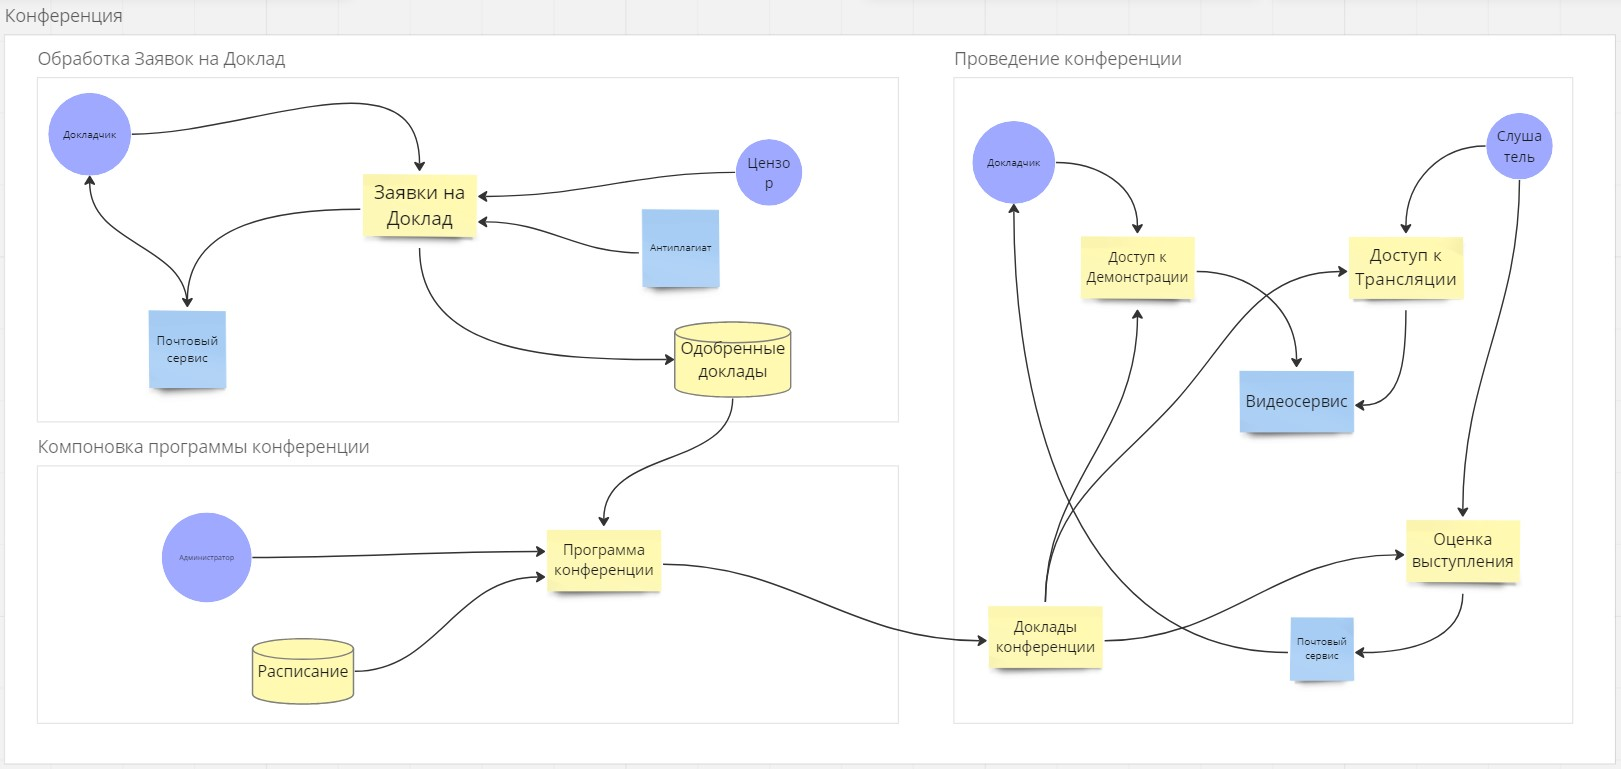
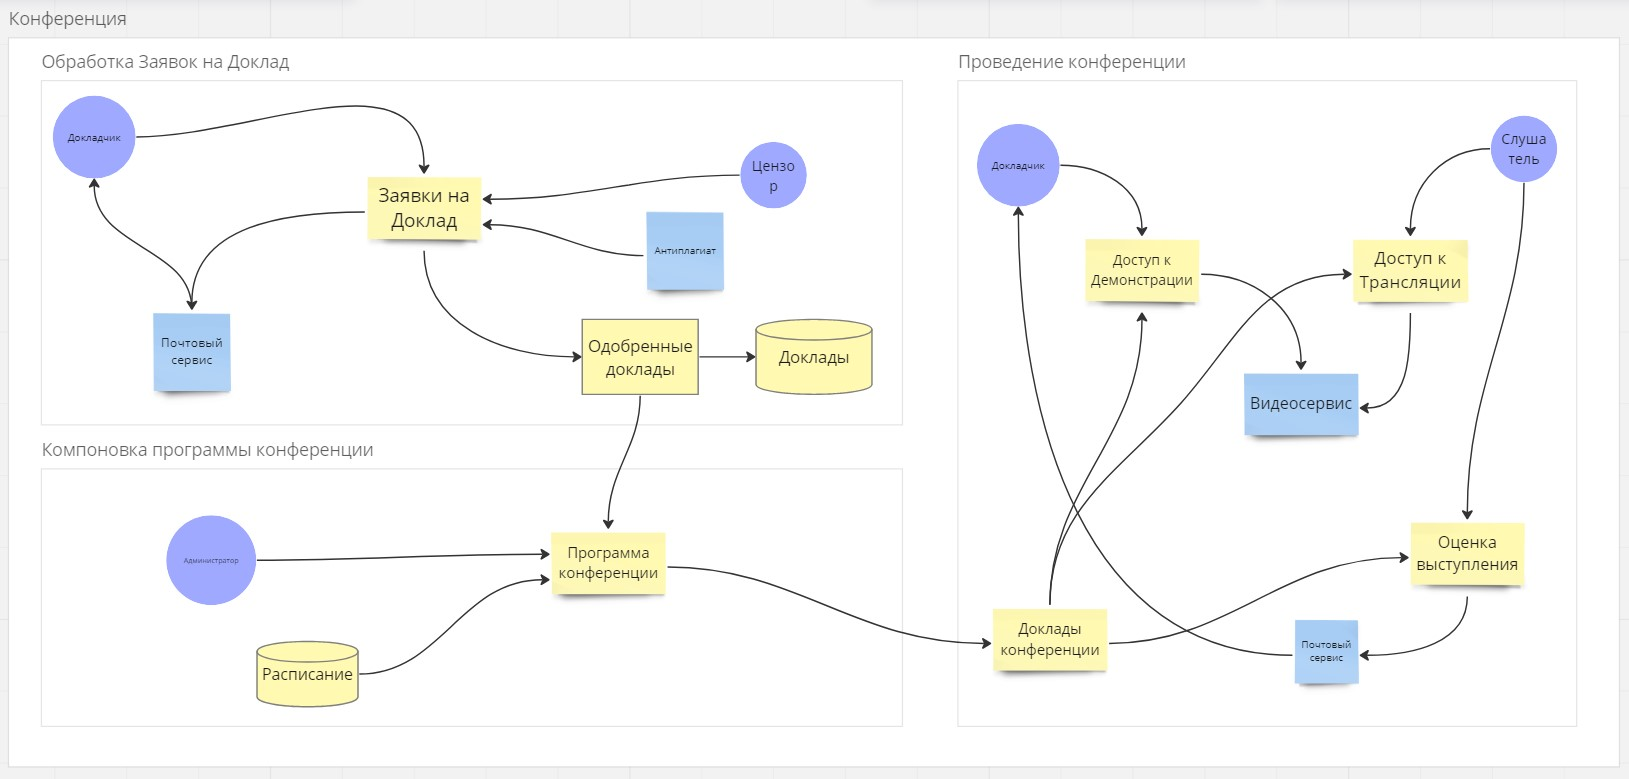
Корректировка ДЗ 4

diff --git a/docs/context/context_05.md b/docs/context/context_05.md
@@ -24,7 +24,9 @@ Rel(adm, ibs, "Рецензия")
 Rel(ibs, es, "Отправить уведомлени по e-mails", "SMTP")
 Rel(es, pbc, "Обратная связь по заявке", "SMTP")
 Rel(ibs, antp, "Запрос проверки")
-Rel(antp, ibs, "Результат проверки")
+Rel(ibs, ppt, "Получение одобренных докладов")
+Rel(ppt, cfn, "Получение повестки программы")
+
 
 
 Rel(adm, ppt, "Компановка")
